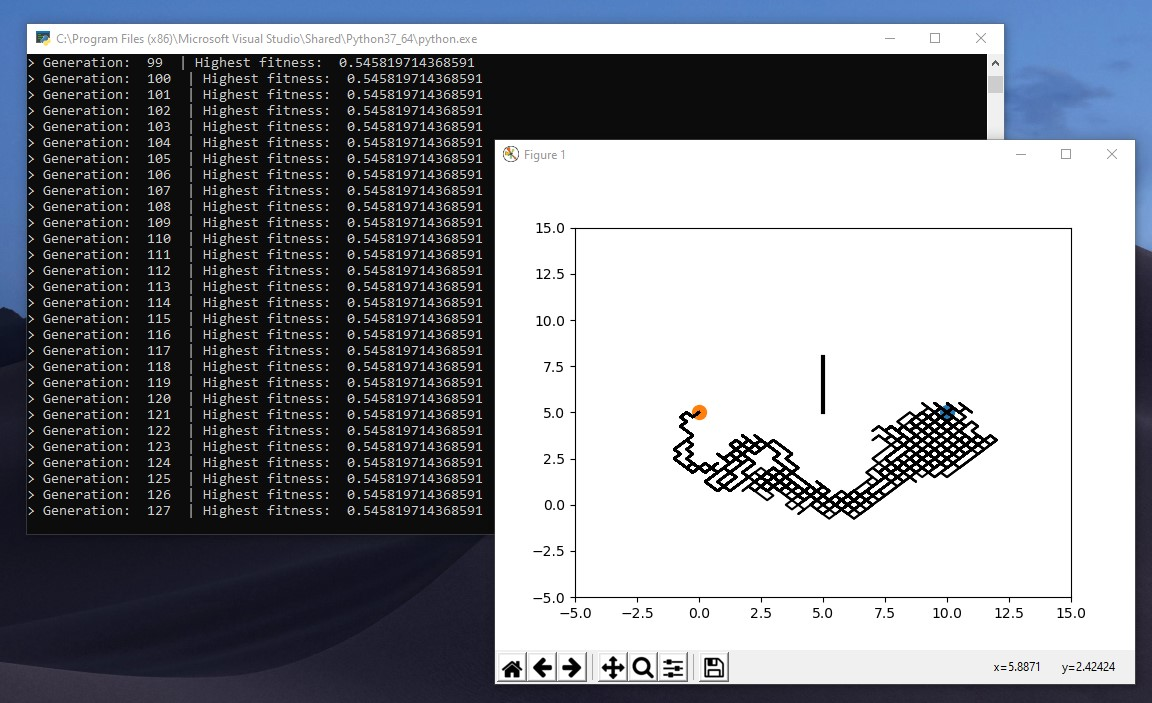
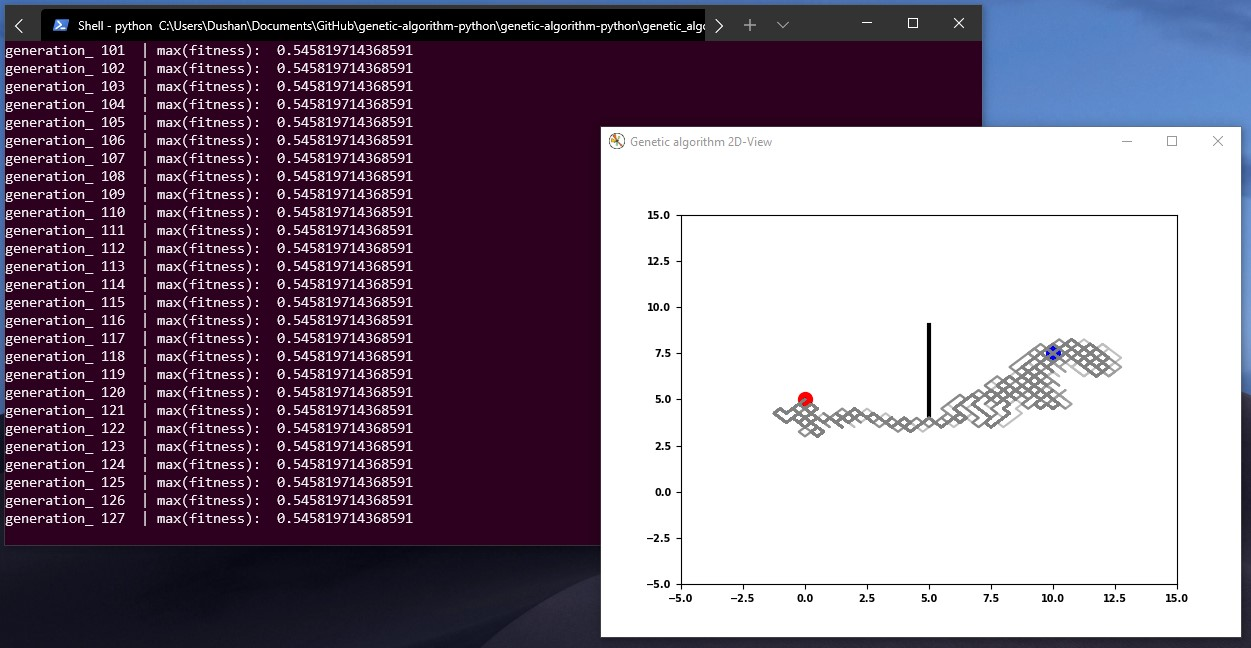
[metadata] screenshots changed

diff --git a/genetic-algorithm-python/genetic_algorithm_python.py b/genetic-algorithm-python/genetic_algorithm_python.py
@@ -15,7 +15,7 @@ mutation_rate = 0.0001
 obstacle_line = numpy.array([[5, 4], [5, 9]])
 
 plot_config_toolbar = "None"
-plot_config_font = {'family': 'normal', 'weight': 'bold', 'size': 7}
+plot_config_font = {'family': 'DejaVu Sans', 'weight': 'bold', 'size': 7}
 
 class GeneticAlgorithm(object):
     def __init__(self, dna_size, dna_bound, cross_rate, mutation_rate, no_chromosomes):
@@ -91,7 +91,7 @@ class Line(object):
         plot.plot(lines_x.T, lines_y.T, c=(plot_colors.to_rgba("grey", alpha=0.5)))
         plot.xlim((-5, 15))
         plot.ylim((-5, 15))
-        plot.pause(0.01)
+        plot.pause(0.5)
 
 def main():
     try:
